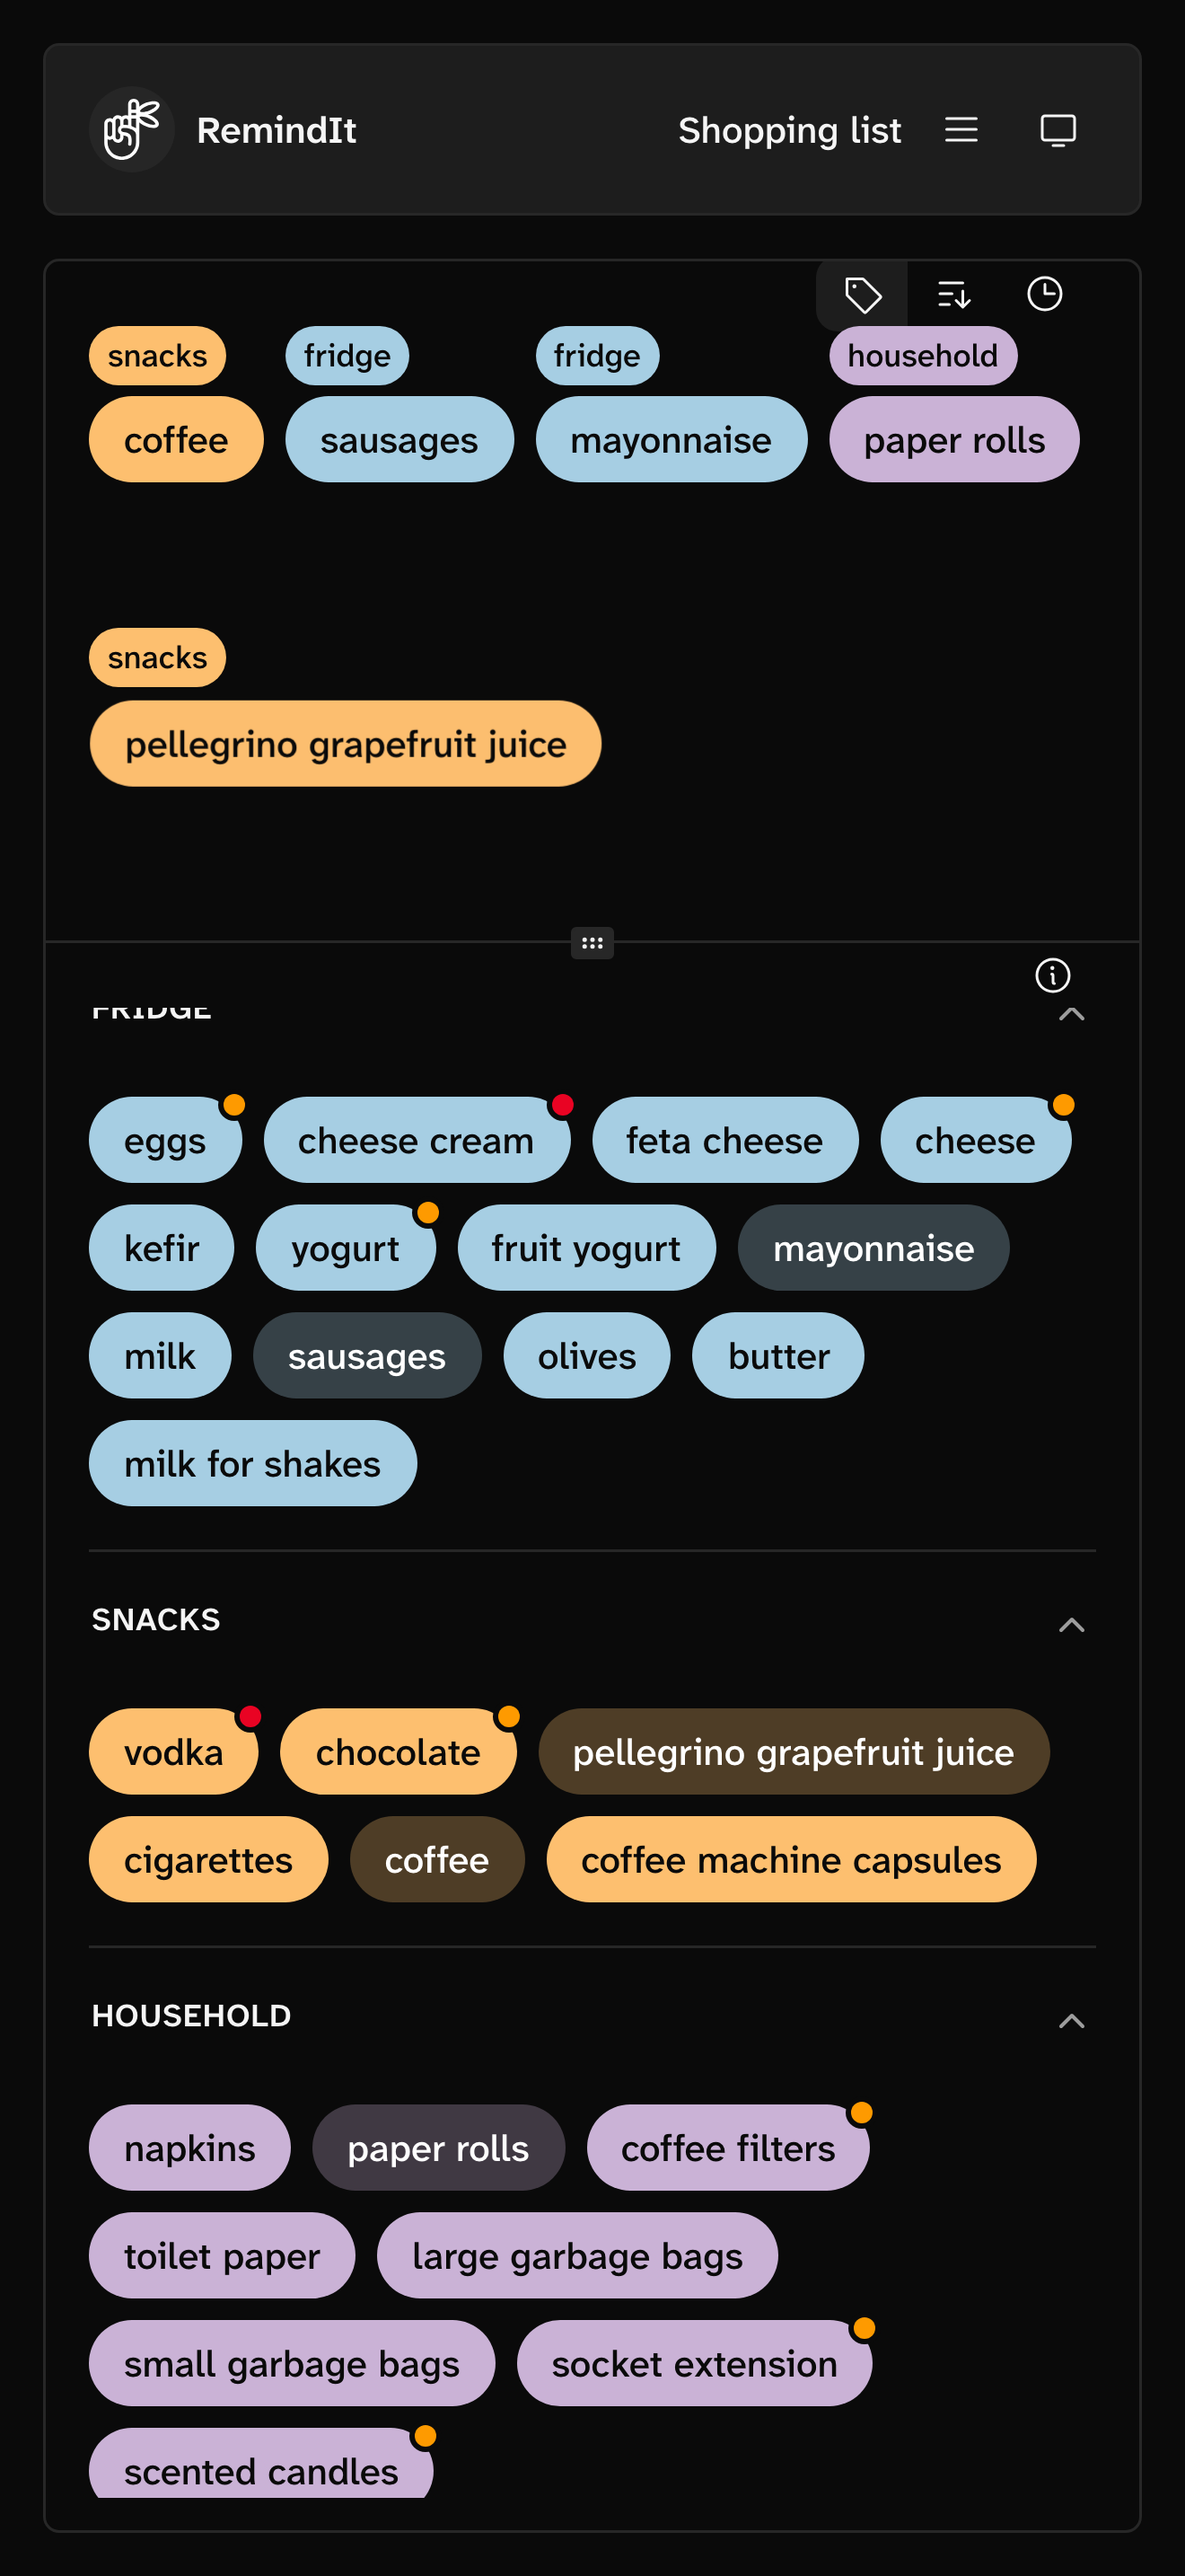
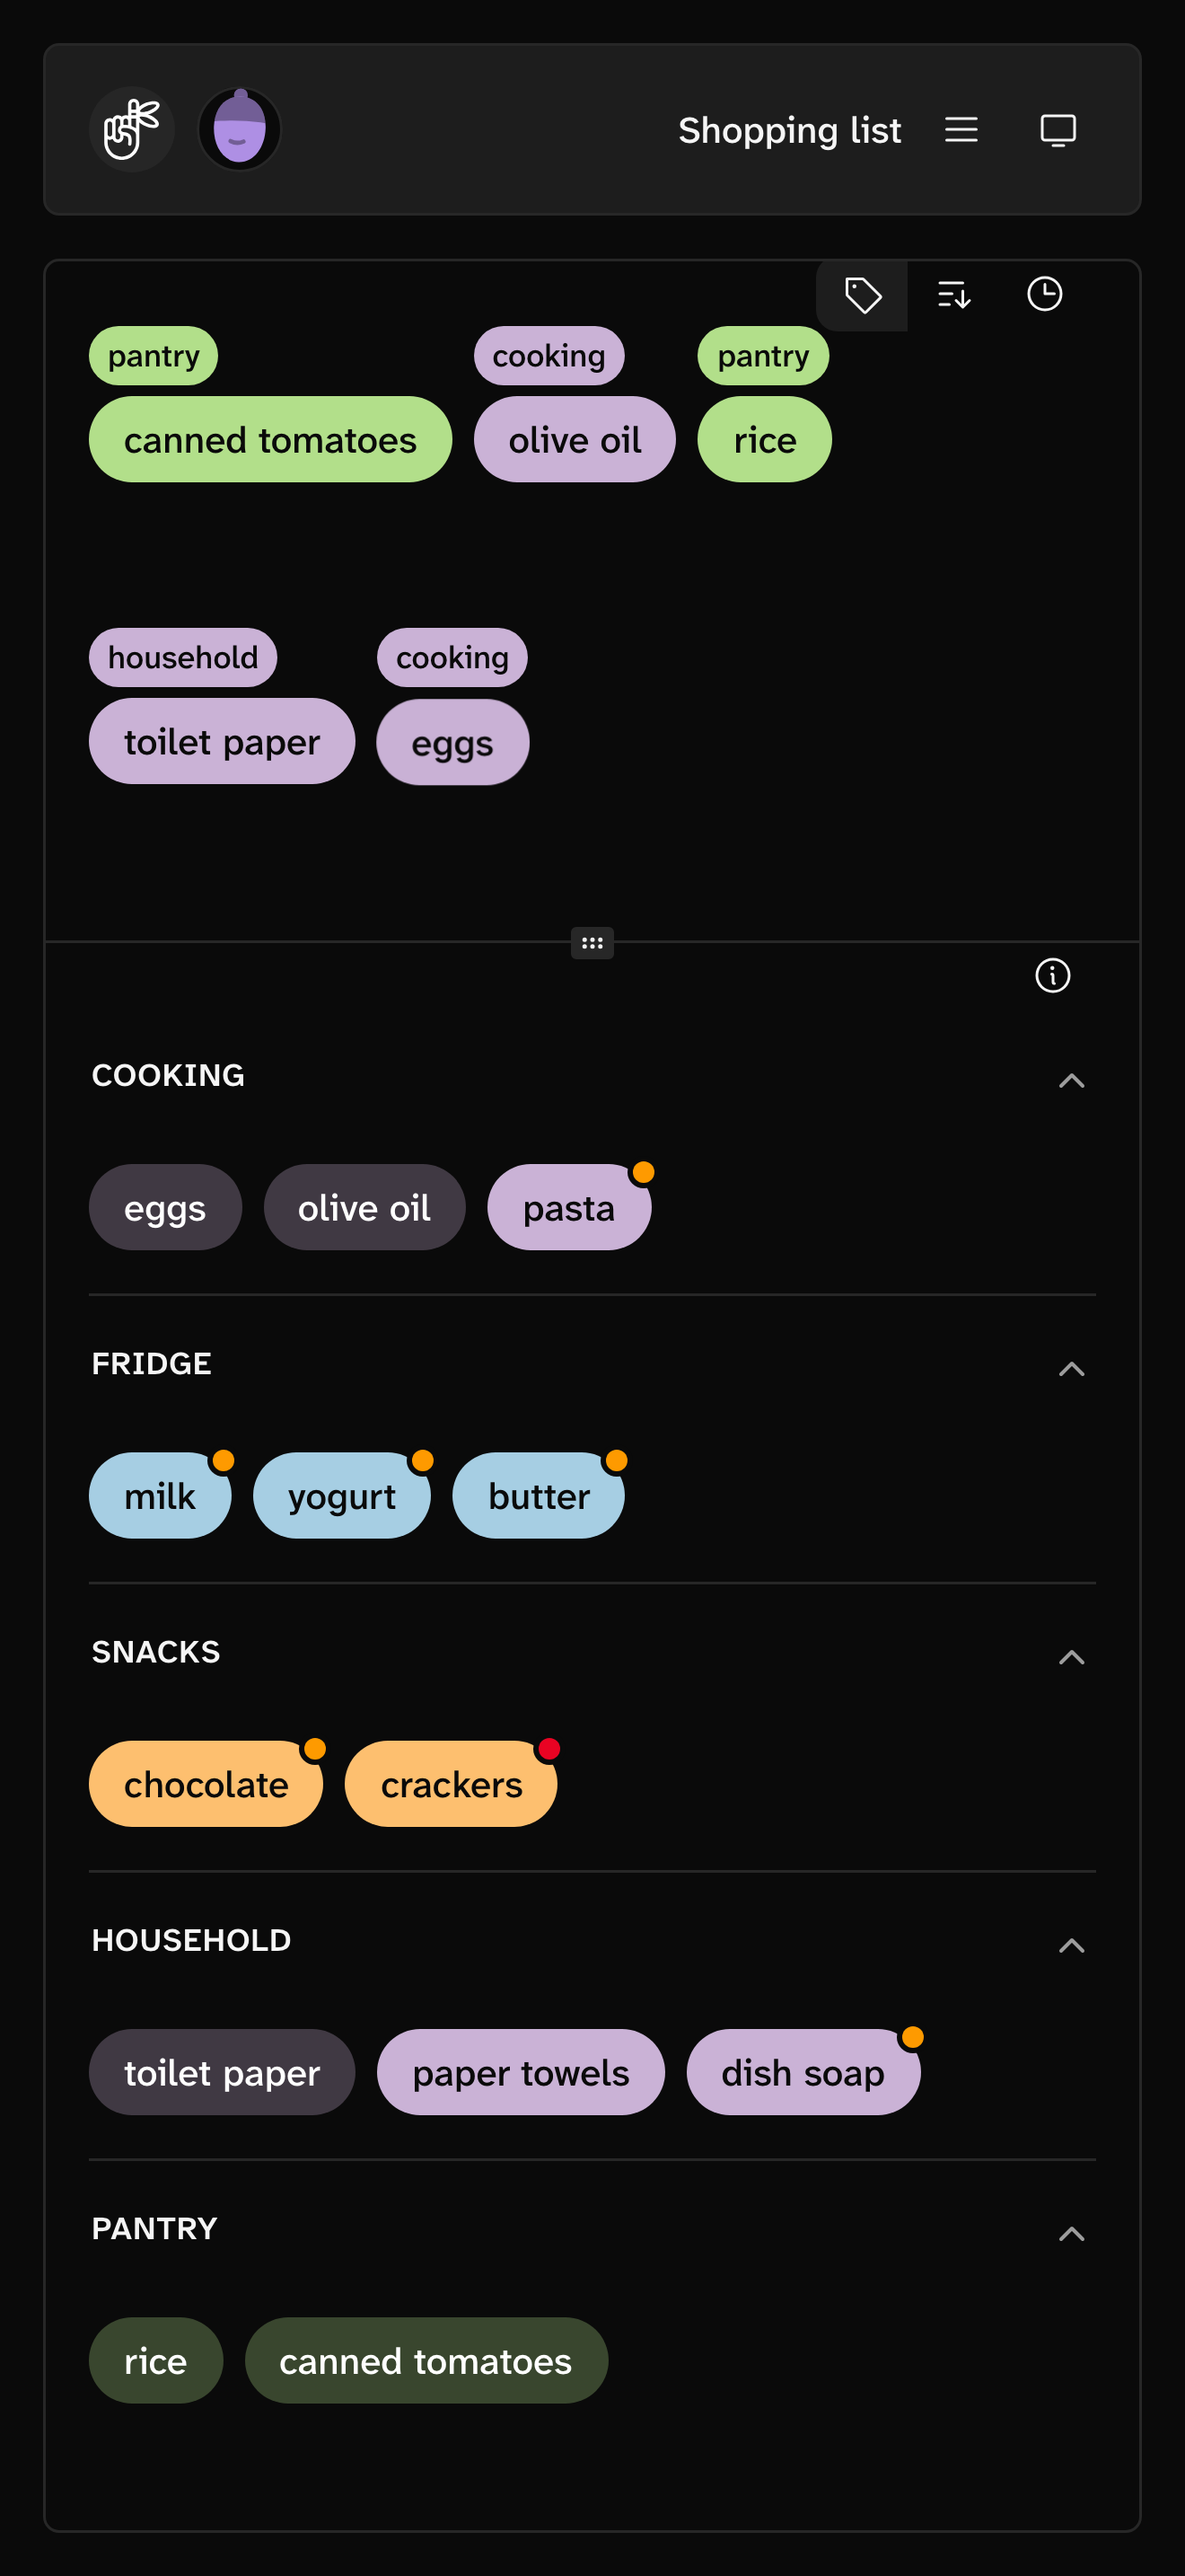
chore: release v3.2.0
First-run onboarding flow and Profile page (Phase 4), plus menu avatar.
Regenerate light/dark mobile screenshots and refresh CHANGELOG.

diff --git a/scripts/generate-mobile-screenshot.ts b/scripts/generate-mobile-screenshot.ts
@@ -79,6 +79,29 @@ async function generateScreenshot(
 
   await page.goto("/")
   await page.waitForLoadState("networkidle")
+
+  // First-run onboarding gates the catalog: the router redirects un-onboarded
+  // users to /onboarding, so we complete it here (with the default starter
+  // catalog) to reach the populated shopping screen.
+  const usernameInput = page.locator("#username")
+  if (await usernameInput.count()) {
+    await page.waitForFunction(
+      () => {
+        const el = document.querySelector<HTMLInputElement>("#username")
+        return el !== null && !el.disabled
+      },
+      { timeout: 30_000 }
+    )
+    await page.fill("#firstName", "Demo")
+    await page.fill("#lastName", "User")
+    await page.fill("#username", "demo")
+    await page.getByRole("button", { name: "Next" }).click()
+    await page.getByRole("button", { name: "Finish" }).click()
+    await page.waitForURL((url) => url.pathname === "/")
+    await page.waitForLoadState("networkidle")
+    await page.waitForTimeout(800)
+  }
+
   // Unselected catalog chips carry data-testid="catalog-item" with
   // data-selected="false"; they are the only clickable add targets.
   const itemButtons = page.locator(

diff --git a/CHANGELOG.md b/CHANGELOG.md
@@ -2,6 +2,20 @@
 
 All notable changes to Remindit will be documented in this file.
 
+## v3.2.0 — 2026-08-28
+
+_Your first run just got friendlier: a guided onboarding flow sets up your profile and starter catalog, and a new Profile page puts your account front and center._
+
+### ✨ New Features
+
+- **First-Run Onboarding**: New users are walked through a quick setup that rolls a random profile (avatar + handle) and lets you pick a starter catalog before landing on your list
+- **Profile Page**: Settings becomes Profile — manage your name, avatar, starter catalog, color palette, and reset or reseed your data, all from one place
+
+### 🔧 Improvements
+
+- **Menu Avatar**: The "RemindIt" wordmark is now your user avatar, linking straight to Profile (the logo still takes you home)
+- **Bigger Onboarding Roll**: The "roll a new profile" button is larger and more inviting on the welcome screen
+
 ## v3.1.0 — 2026-08-27
 
 _Categorical colors grow up: a managed palette system with a palette picker in Settings, smarter category ordering, and crisper, more accessible color contrast._
